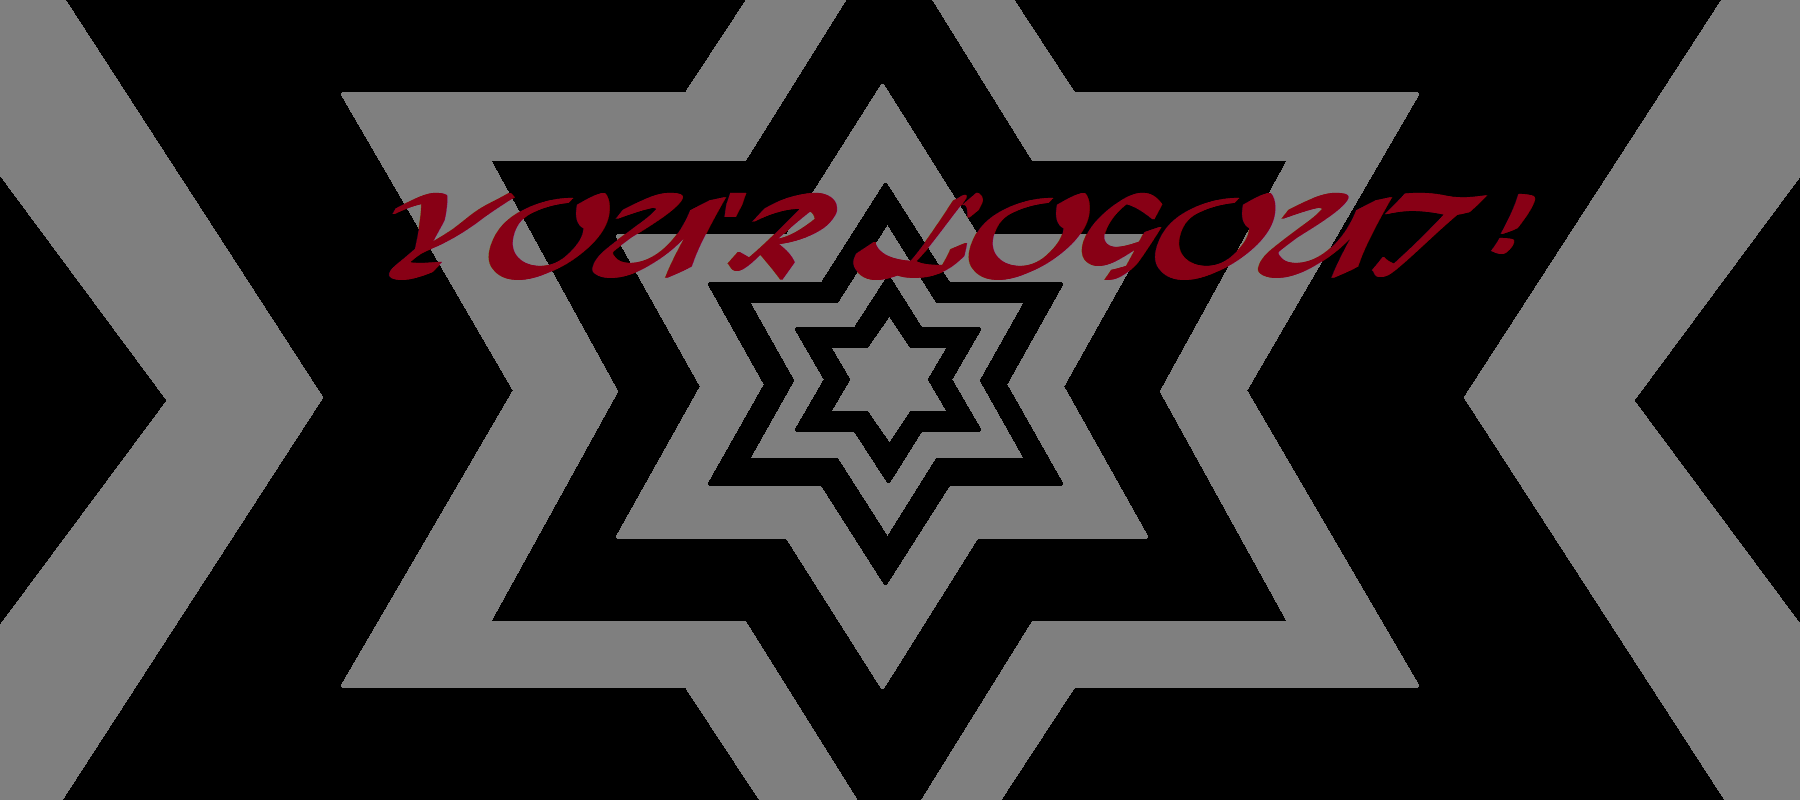
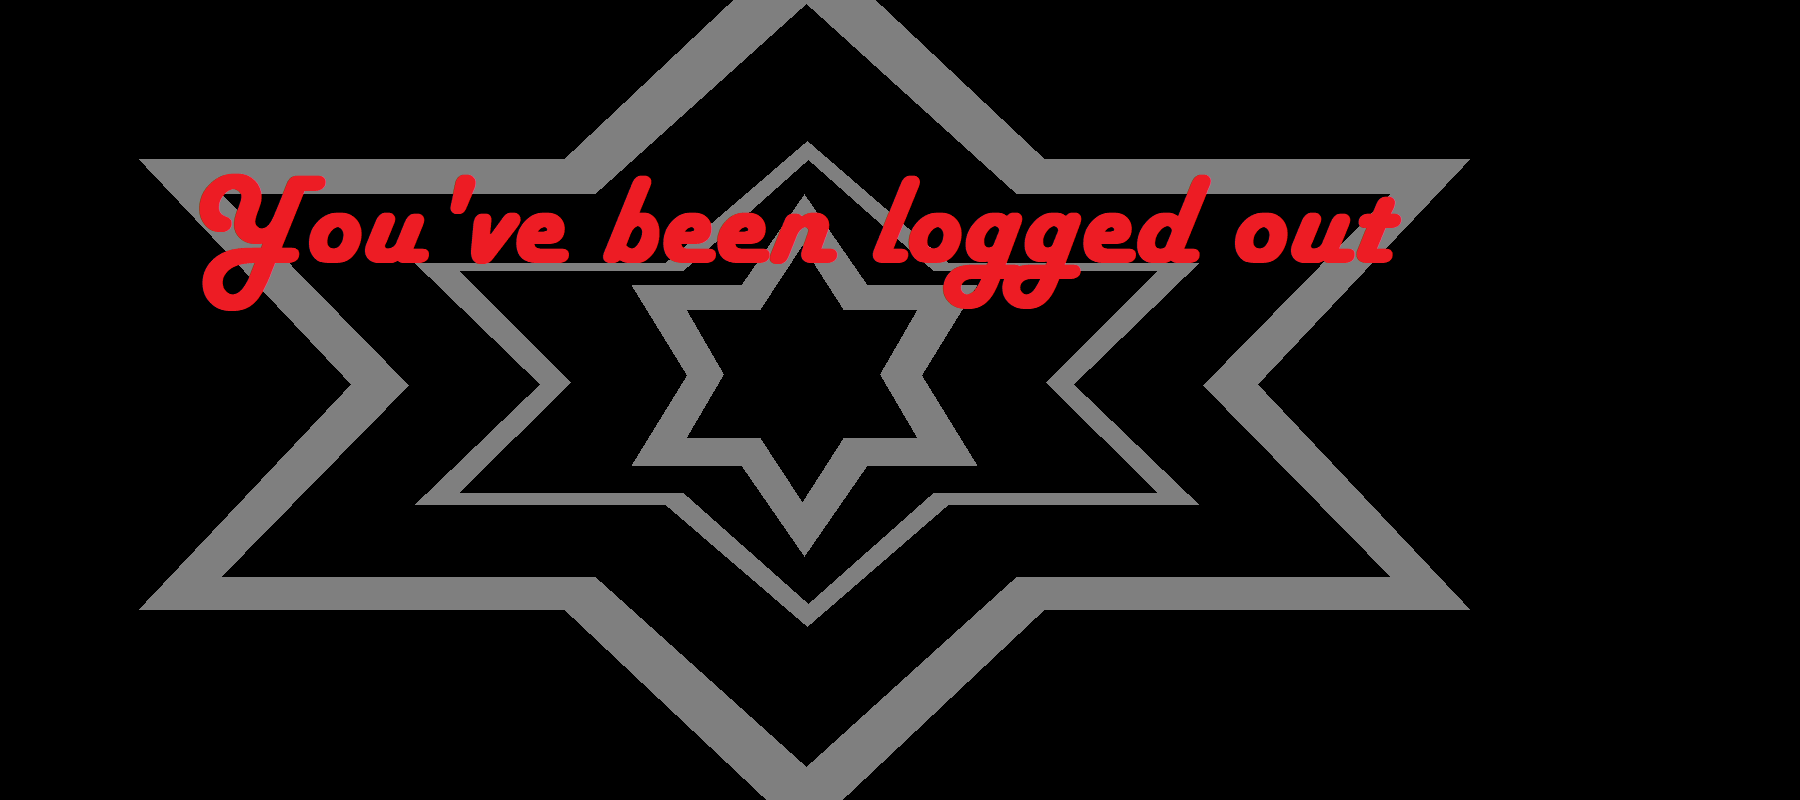
CSS add

diff --git a/src/pages/Login.tsx b/src/pages/Login.tsx
@@ -21,8 +21,10 @@ import {useNavigate} from "react-router-dom";
 import UserInterface from "../api/User/UserInterface";
 import ParticlesBg from "particles-bg";
 
+    
 
 const validationSchema = Yup.object().shape({
+    
     username: Yup.string()
         .required('Username is required'),
 
@@ -33,6 +35,7 @@ const validationSchema = Yup.object().shape({
 
 
 export default function LoginForm({setLoggedInUser}: { setLoggedInUser: (user: UserInterface) => void }) {
+
     const {
         register,
         handleSubmit,
@@ -110,8 +113,17 @@ export default function LoginForm({setLoggedInUser}: { setLoggedInUser: (user: U
 
     return (
 
-        <Grid item xs={2}>
-            <Dialog
+        <Grid item sx={{
+            width: "100%",
+            height: "100%",
+            display: "flex",
+            flexDirection: "column",
+            alignItems: "center",
+            justifyContent: "center",
+            border: "2px solid purple",
+            padding: "2 %"
+        }} >
+            <Dialog 
                 open={dialogOpen}
                 onClose={handleDialogClose}
                 aria-labelledby="alert-dialog-title"

diff --git a/src/pages/Logout.tsx b/src/pages/Logout.tsx
@@ -8,6 +8,7 @@ import image from "./light.png";
 import image2 from "./dark.png";
 import {useContext} from "react";
 import {themeContext} from "../App";
+import "../media/css/Logout.css";
 
 export default function Logout({setLoggedInUser}: { setLoggedInUser: (user: UserInterface) => void }) {
     const theme = useContext(themeContext).currentTheme;
@@ -52,10 +53,10 @@ export default function Logout({setLoggedInUser}: { setLoggedInUser: (user: User
                     display: "flex",
                     flexDirection: "column",
                     alignItems: "center",
-                    justifyContent: "center"
+                    justifyContent: "center",
                 }}>
                     <h1>
-                    <img src={im}/>
+                    <img src={im} alt="You've been logged out"/>
                     </h1>
                 </Box>}
                 

diff --git a/src/media/css/Logout.css b/src/media/css/Logout.css
@@ -96,22 +96,17 @@ section > label {
 
 #root > div > div > div.MuiGrid-root.MuiGrid-item.MuiGrid-grid-md-8.css-am41oj-MuiGrid-root > div{
     border-radius: 4px;
-    padding: 20px;
-    margin-top: 20px;
-    box-shadow: 0 0 4px rgb(79, 98, 148);
+    padding: 0px;
+    margin-top: 0px;
+    box-shadow: 0 0 0px rgb(79, 98, 148);
 }
 
 #root > div > div > div.MuiGrid-root.MuiGrid-item.MuiGrid-grid-md-8.css-am41oj-MuiGrid-root > div > div{
     border-radius: 4px;
-    padding: 20px;
-    margin-top: 20px;
-    box-shadow: 0 0 4px rgb(79, 98, 148);
+    padding: 0px;
+    margin-top: 0px;
+    box-shadow: 0 0 0px rgb(79, 98, 148);
 }
+    
 
 
-Grid {
-    display: grid;
-    border: rgb(79, 98, 148) 10px solid;
-    grid-template-columns: 1fr 1fr;
-    grid-gap: 20px;
-}

diff --git a/src/components/Navbar.tsx b/src/components/Navbar.tsx
@@ -14,6 +14,7 @@ import {Button, createTheme, FormControlLabel, FormGroup, Switch, Theme, Typogra
 import {Link} from "react-router-dom";
 import {useContext} from "react";
 import {loggedInUserContext} from "../App";
+import "../media/css/navbar.css";
 
 export default function AccountMenu({
                                         currentTheme,

diff --git a/src/media/css/navbar.css b/src/media/css/navbar.css
@@ -1,0 +1,6 @@
+#root > div > div > div.MuiGrid-root.MuiGrid-item.MuiGrid-grid-xs-9.MuiGrid-grid-md-8.css-158u7se-MuiGrid-root > div{
+    border-radius: 4px;
+    padding: 20px;
+    margin-top: 20px;
+    box-shadow: 0 0 4px rgb(79, 98, 148);
+}
